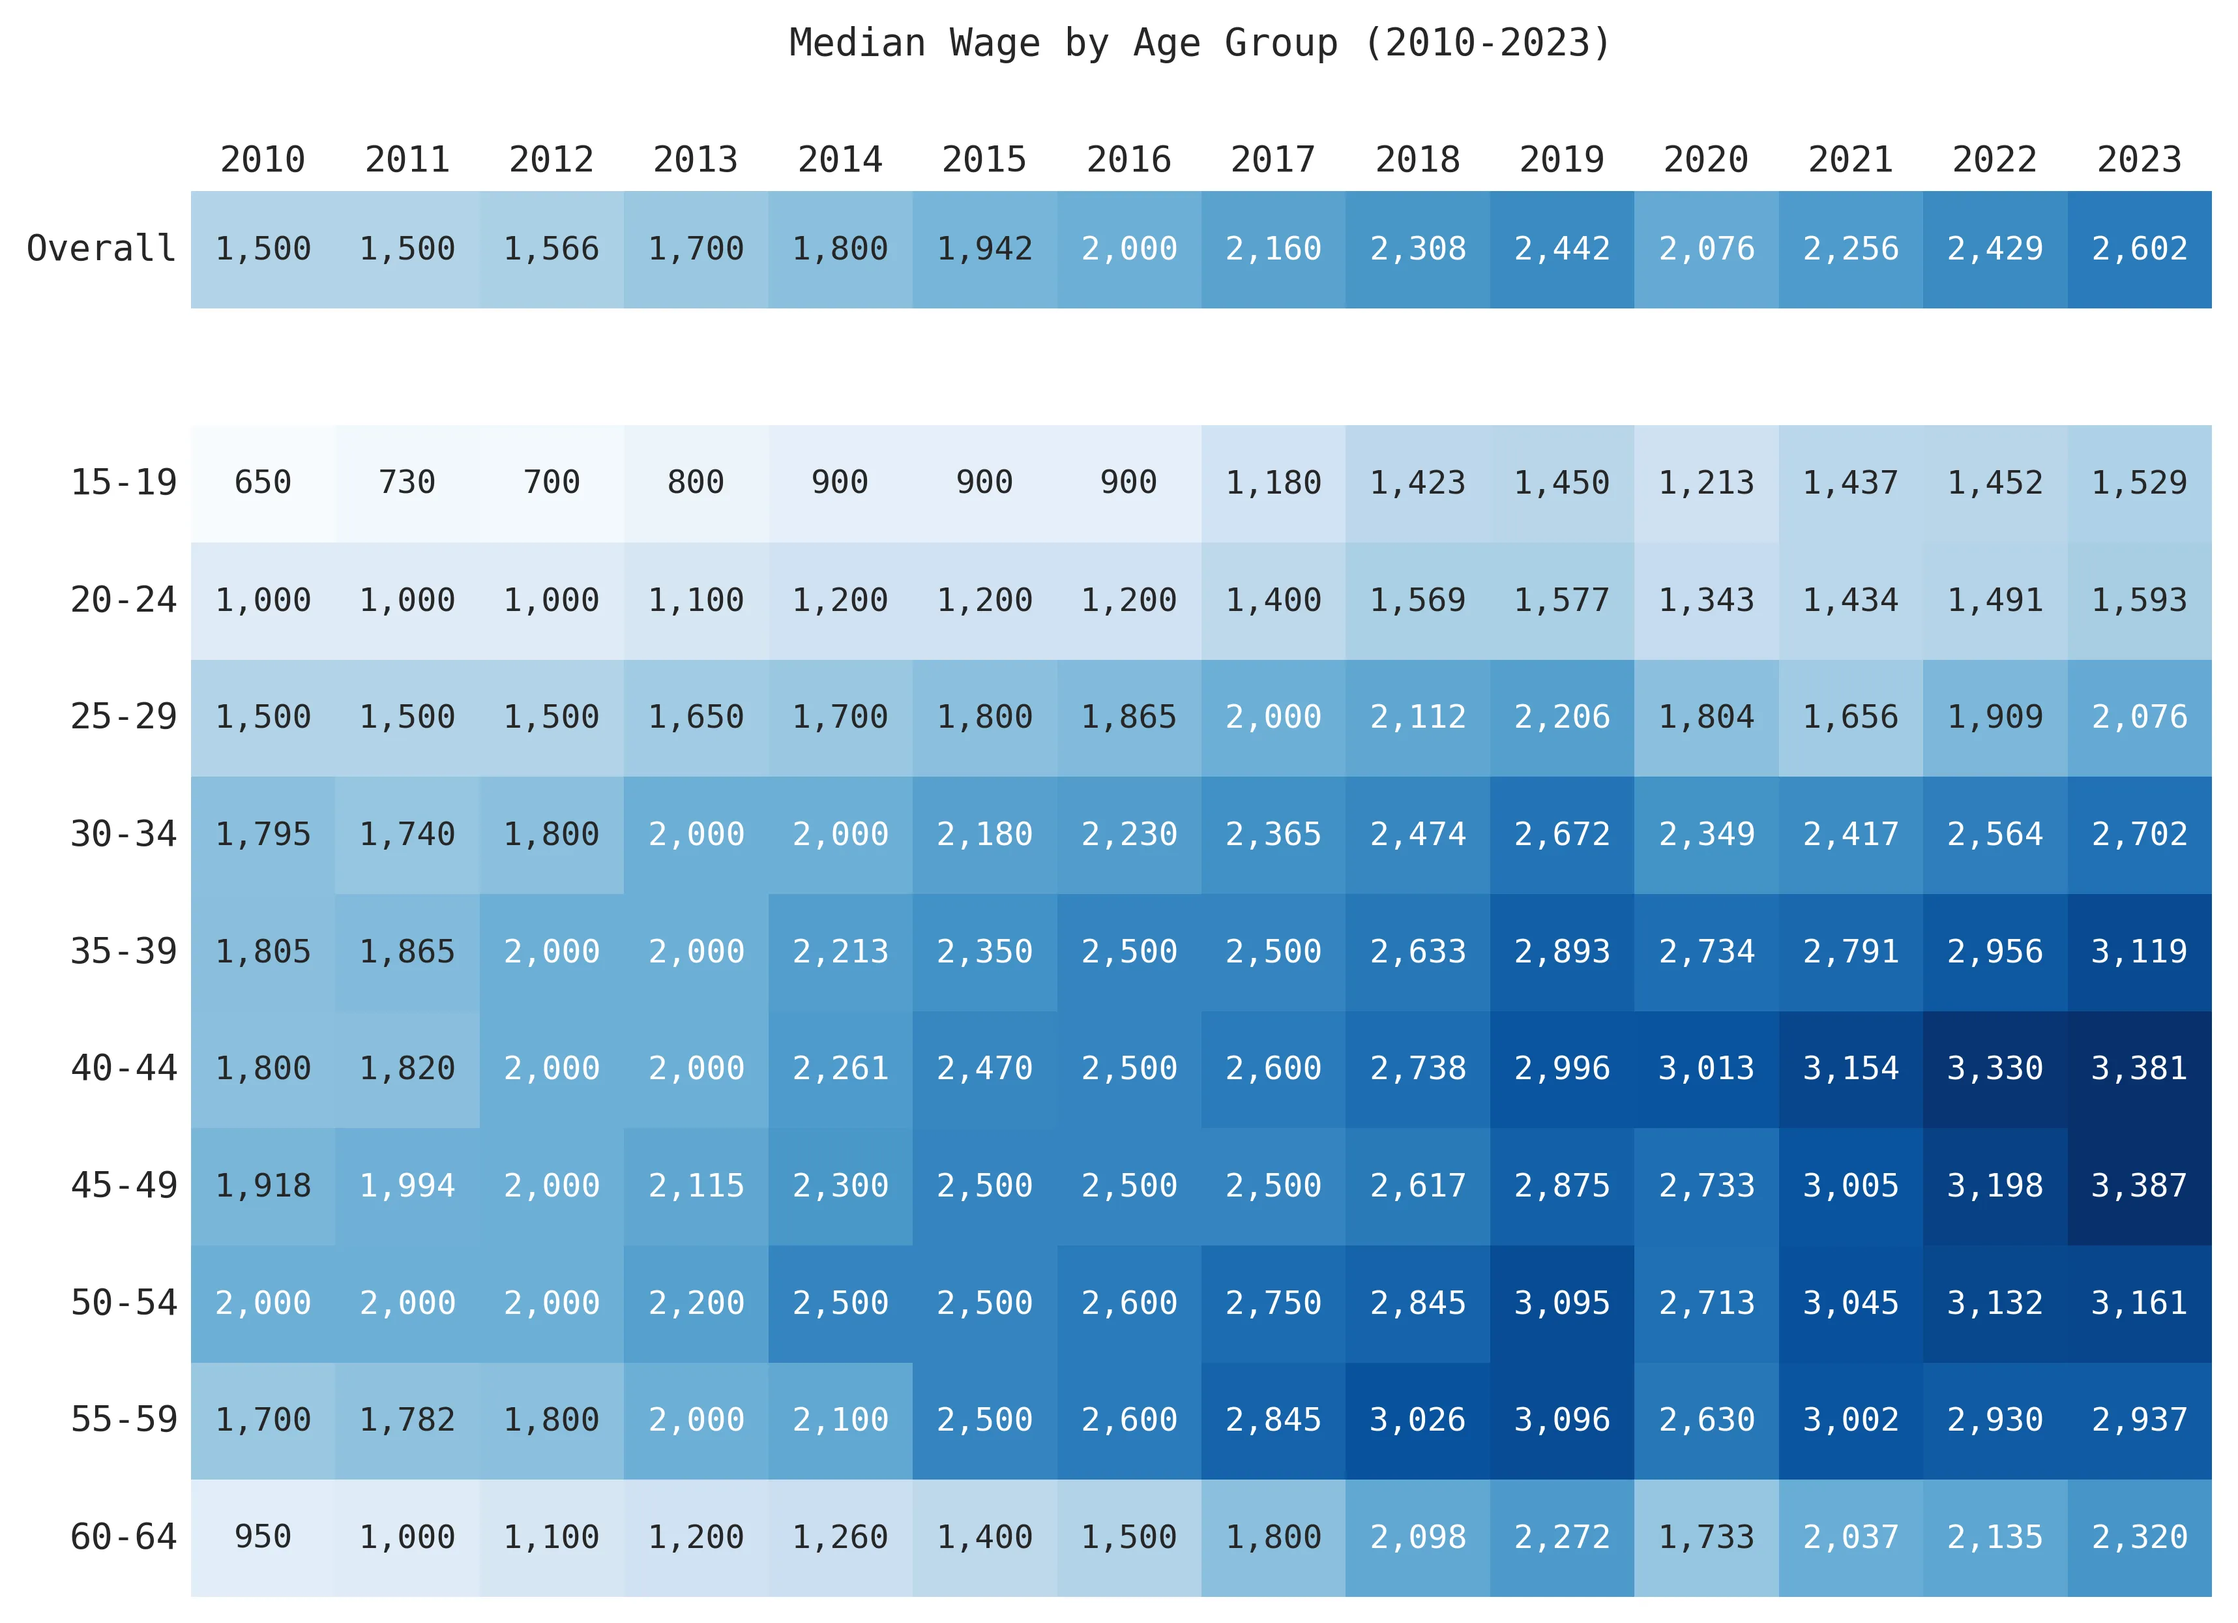
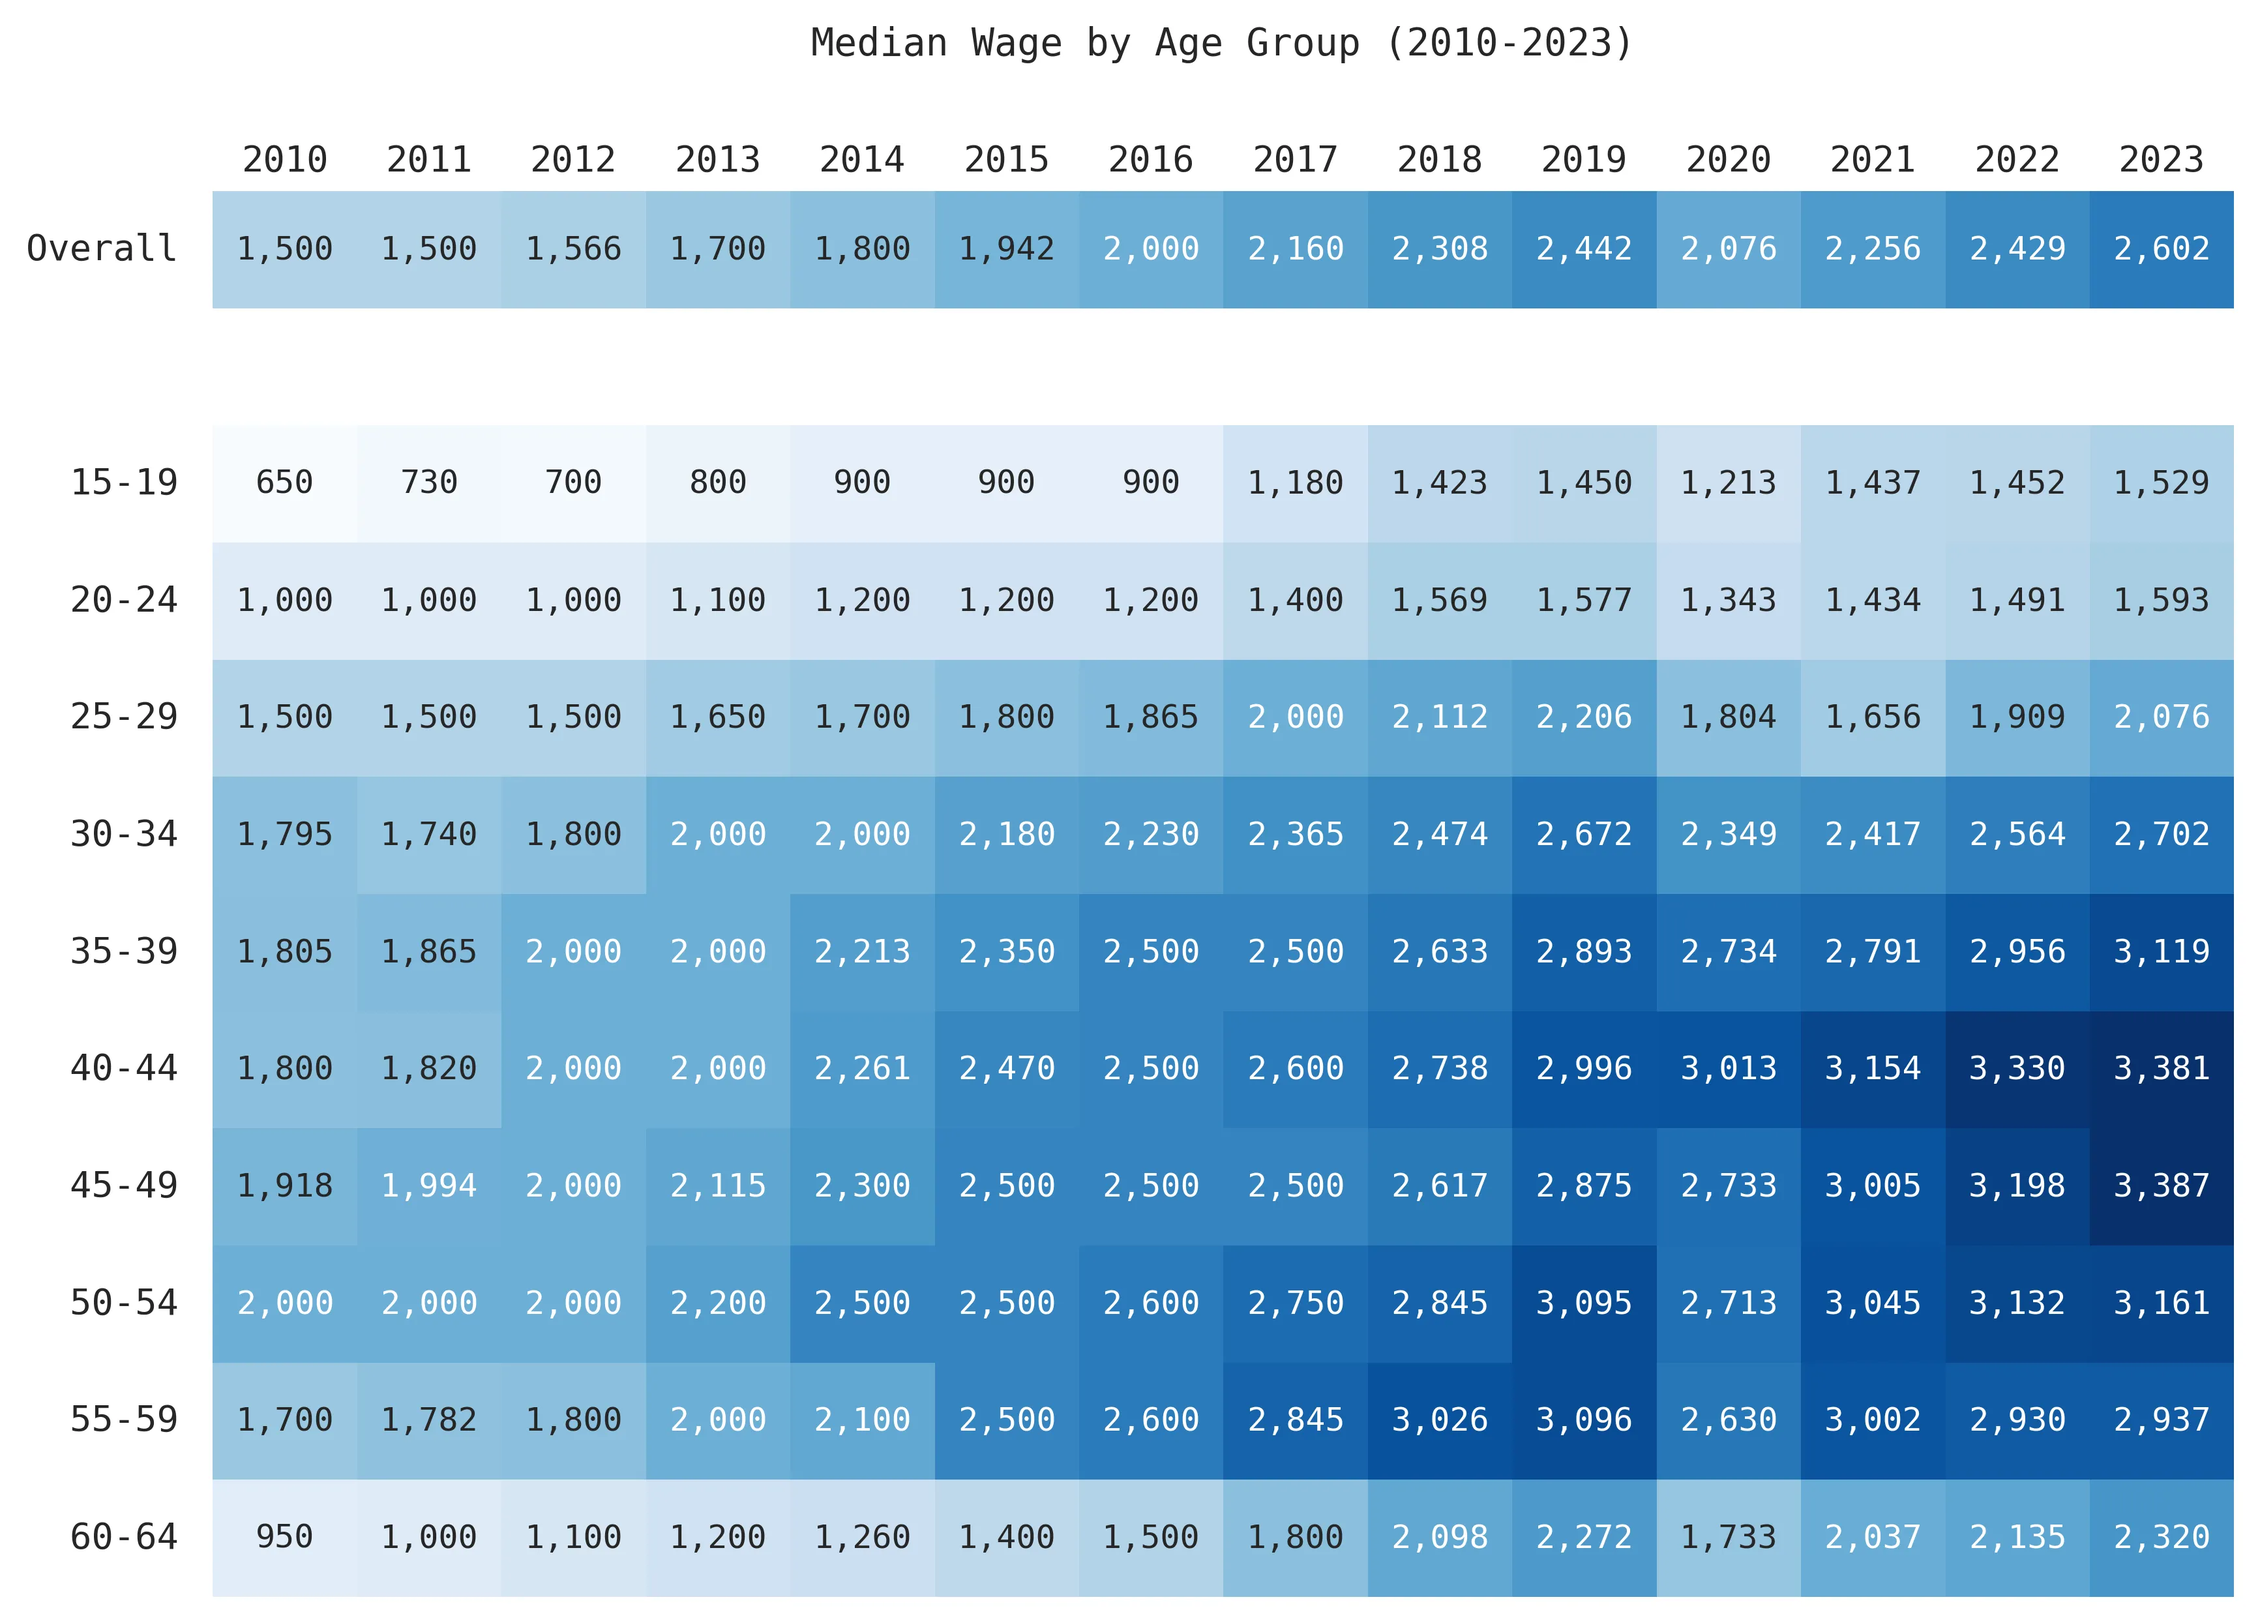
Update formatting

diff --git a/2024-12-10_wages/script.py b/2024-12-10_wages/script.py
@@ -6,7 +6,7 @@ from datetime import datetime
 
 def heatmap():
     df = pd.read_excel('sgu.xlsx')
-    df.age = df.age.fillna(' ')
+    df.age = (df.age.astype(str) + ' ').replace('nan ', '')
     df = df.set_index('age')
 
     sb.set(font="Monospace")
